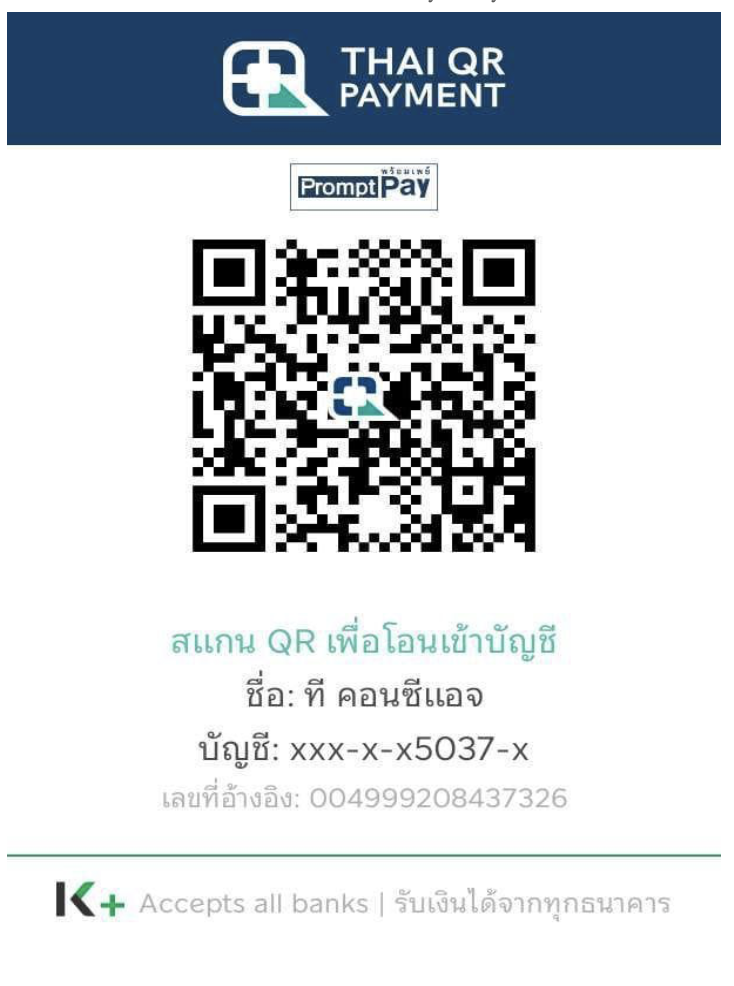
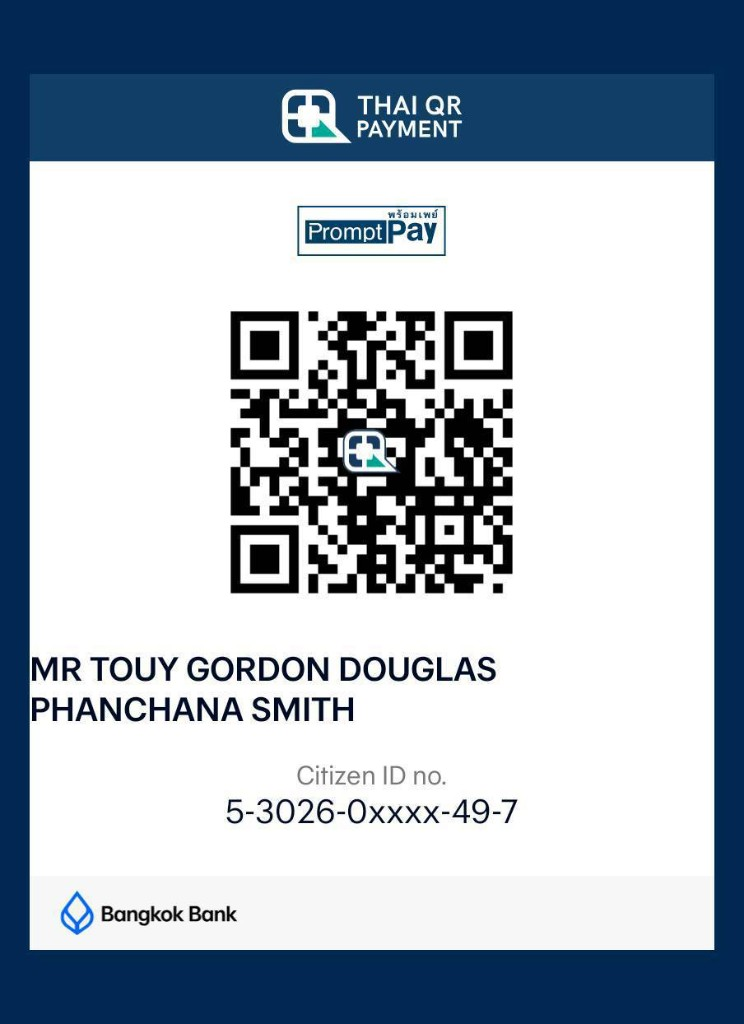
Update payment methods to Bangkok Bank, PromptPay, and Wise QR details.

diff --git a/src/components/payment/PaymentInformation.tsx b/src/components/payment/PaymentInformation.tsx
@@ -12,7 +12,7 @@ import { Card, CardContent, CardDescription, CardHeader, CardTitle } from "@/com
 import { Input } from "@/components/ui/input";
 import { Label } from "@/components/ui/label";
 
-const DEFAULT_STATIC_QR = "/images/payment/promptpay-static.png";
+const DEFAULT_STATIC_QR = paymentConfig.promptPayQrImage;
 
 export type PaymentInformationBankDetails = {
   bankName?: string;
@@ -30,9 +30,9 @@ export type PaymentInformationProps = {
   /** Controlled slip file; omit for uncontrolled mode with internal state. */
   transferSlipFile?: File | null;
   onTransferSlipChange?: (file: File | null) => void;
-  /** Static QR image URL when no dynamic amount QR is shown. Defaults to the site’s Kasikorn / PromptPay template asset. */
+  /** Static QR image URL when no dynamic amount QR is shown. Defaults to the Bangkok Bank PromptPay asset. */
   staticQrSrc?: string;
-  /** Override displayed bank fields (defaults from `paymentConfig.bank` / i18n). */
+  /** Override displayed bank fields (defaults from `paymentConfig.bank`). */
   bankDetails?: PaymentInformationBankDetails;
   className?: string;
 };
@@ -67,7 +67,7 @@ export function PaymentInformation({
     [controlledSlip, onTransferSlipChange]
   );
 
-  const bankName = bankDetails?.bankName ?? t("kbankName");
+  const bankName = bankDetails?.bankName ?? paymentConfig.bank.name;
   const accountName = bankDetails?.accountName ?? paymentConfig.bank.accountName;
   const accountNumber = bankDetails?.accountNumber ?? paymentConfig.bank.accountNumber;
 
@@ -248,6 +248,37 @@ export function PaymentInformation({
               </dd>
             </div>
           </dl>
+        </section>
+
+        <section aria-labelledby="payment-wise-heading" className="space-y-4">
+          <div className="border-t border-border pt-6">
+            <h3 id="payment-wise-heading" className="text-base font-semibold text-gray-900 dark:text-gray-100">
+              {t("wiseTitle")}
+            </h3>
+            <p className="mt-1 text-sm text-muted">{t("wiseHint")}</p>
+          </div>
+          <div className="flex flex-col items-center gap-4 sm:flex-row sm:items-start">
+            {/* eslint-disable-next-line @next/next/no-img-element -- public static Wise QR asset */}
+            <img
+              src={paymentConfig.wise.qrImage}
+              alt={t("wiseQrAlt")}
+              width={180}
+              height={180}
+              className="h-40 w-40 rounded-lg border border-border bg-white object-contain p-2 dark:bg-gray-950"
+            />
+            <dl className="grid flex-1 gap-3 text-sm">
+              <div className="flex flex-col gap-0.5 sm:flex-row sm:items-baseline sm:gap-4">
+                <dt className="min-w-[8rem] shrink-0 font-medium text-gray-600 dark:text-gray-400">{t("wiseIdLabel")}</dt>
+                <dd className="font-mono font-semibold text-gray-900 dark:text-gray-100">
+                  {paymentConfig.wise.accountId}
+                </dd>
+              </div>
+              <div className="flex flex-col gap-0.5 sm:flex-row sm:items-baseline sm:gap-4">
+                <dt className="min-w-[8rem] shrink-0 font-medium text-gray-600 dark:text-gray-400">{t("accountNameLabel")}</dt>
+                <dd className="text-gray-900 dark:text-gray-100">{paymentConfig.wise.beneficiary}</dd>
+              </div>
+            </dl>
+          </div>
         </section>
 
         <section aria-labelledby="payment-slip-heading" className="space-y-2 border-t border-border pt-6">

diff --git a/src/app/[locale]/(portal)/portal/invoices/[id]/InvoiceDetailClient.tsx b/src/app/[locale]/(portal)/portal/invoices/[id]/InvoiceDetailClient.tsx
@@ -9,6 +9,7 @@ import { submitPaymentWithProof } from "@/actions/payment";
 import { uploadDocumentMetadataAction } from "@/actions/document";
 import { CreditCard, Building2, Globe, Upload, Loader2 } from "lucide-react";
 import type { PaymentSettings } from "@/lib/payment-settings";
+import { paymentConfig } from "@/config/payments";
 
 type InvoiceWithRelations = {
   id: string;
@@ -66,6 +67,7 @@ export function InvoiceDetailClient({
       Reference: reference,
       Details: paymentSettings.wiseDetails.replace("[Your invoice reference]", reference),
       Note: paymentSettings.wiseNote,
+      "Pay link": paymentConfig.wise.payUrl,
     },
   };
 
@@ -206,14 +208,24 @@ export function InvoiceDetailClient({
               <p className="mb-3 text-sm font-medium text-gray-700 dark:text-gray-300">
                 {wiseInstructions.label}
               </p>
-              <dl className="space-y-2 text-sm">
-                {Object.entries(wiseInstructions.details).map(([k, v]) => (
-                  <div key={k} className="flex flex-col gap-0.5">
-                    <dt className="font-medium text-gray-600 dark:text-gray-400">{k}</dt>
-                    <dd className="whitespace-pre-wrap text-gray-900 dark:text-white">{v}</dd>
-                  </div>
-                ))}
-              </dl>
+              <div className="flex flex-col gap-4 sm:flex-row sm:items-start">
+                {/* eslint-disable-next-line @next/next/no-img-element -- public Wise QR asset */}
+                <img
+                  src={paymentConfig.wise.qrImage}
+                  alt="Wise QR code"
+                  width={180}
+                  height={180}
+                  className="h-40 w-40 rounded-lg border border-gray-200 bg-white object-contain p-2 dark:border-gray-600"
+                />
+                <dl className="space-y-2 text-sm">
+                  {Object.entries(wiseInstructions.details).map(([k, v]) => (
+                    <div key={k} className="flex flex-col gap-0.5">
+                      <dt className="font-medium text-gray-600 dark:text-gray-400">{k}</dt>
+                      <dd className="whitespace-pre-wrap text-gray-900 dark:text-white">{v}</dd>
+                    </div>
+                  ))}
+                </dl>
+              </div>
             </div>
           )}
 

diff --git a/src/config/payments.ts b/src/config/payments.ts
@@ -5,24 +5,30 @@
 
 export const paymentConfig = {
   /** PromptPay ID: mobile (0XXXXXXXXX), tax ID (13 digits), or e-wallet */
-  promptPayId: process.env.PROMPTPAY_ID ?? "0812345678",
+  promptPayId: process.env.PROMPTPAY_ID ?? "5302601003497",
+
+  /** Static Thai QR / PromptPay image shown when no amount-specific QR is generated */
+  promptPayQrImage: "/images/payment/promptpay-static.png",
 
   /** Bank details for transfer */
   bank: {
-    name: process.env.BANK_NAME ?? "Kasikorn Bank",
+    name: process.env.BANK_NAME ?? "Bangkok Bank",
     branch: process.env.BANK_BRANCH ?? "Head Office",
-    accountName: process.env.BANK_ACCOUNT_NAME ?? "T Concierge",
-    accountNumber: process.env.BANK_ACCOUNT_NUMBER ?? "2058950370",
+    accountName: process.env.BANK_ACCOUNT_NAME ?? "Touy Smith",
+    accountNumber: process.env.BANK_ACCOUNT_NUMBER ?? "037-7-076153",
   },
 
   /** Wise transfer instructions */
   wise: {
-    beneficiary: process.env.WISE_BENEFICIARY ?? "T Concierge",
+    beneficiary: process.env.WISE_BENEFICIARY ?? "Touy Smith",
     accountId: process.env.WISE_ACCOUNT_ID ?? "@touygordondouglasphanchanas",
     currency: "THB",
+    payUrl:
+      process.env.WISE_PAY_URL ?? "https://wise.com/pay/me/touygordondouglasphanchanas",
+    qrImage: "/images/payment/wise-qr.png",
     details:
       process.env.WISE_DETAILS ??
-      "Account ID: @touygordondouglasphanchanas\nReference: [Your invoice reference]",
+      "Wise tag: @touygordondouglasphanchanas\nReference: [Your invoice reference]",
     note: "Please include the invoice reference in the transfer details.",
   },
 } as const;

diff --git a/src/lib/payments/providers/ManualProvider.ts b/src/lib/payments/providers/ManualProvider.ts
@@ -52,12 +52,14 @@ export const wiseProvider: PaymentProvider = {
       method: "wise",
       label: "Wise (International Transfer)",
       details: {
-        "Beneficiary": paymentConfig.wise.beneficiary,
-        "Currency": paymentConfig.wise.currency,
-        "Amount": `${(amount / 100).toFixed(2)} ${currency}`,
-        "Reference": reference,
-        "Details": paymentConfig.wise.details.replace("[Your invoice reference]", reference),
-        "Note": paymentConfig.wise.note,
+        Beneficiary: paymentConfig.wise.beneficiary,
+        "Account ID": paymentConfig.wise.accountId,
+        Currency: paymentConfig.wise.currency,
+        Amount: `${(amount / 100).toFixed(2)} ${currency}`,
+        Reference: reference,
+        Details: paymentConfig.wise.details.replace("[Your invoice reference]", reference),
+        Note: paymentConfig.wise.note,
+        "Pay link": paymentConfig.wise.payUrl,
       },
     };
   },

diff --git a/src/lib/payment-settings.ts b/src/lib/payment-settings.ts
@@ -21,7 +21,7 @@ const SETTINGS_KEY = "payment_details";
 export function getDefaultPaymentSettings(): PaymentSettings {
   return {
     promptPayId: paymentConfig.promptPayId,
-    qrImagePath: process.env.INVOICE_THAI_QR_IMAGE_PATH ?? null,
+    qrImagePath: process.env.INVOICE_THAI_QR_IMAGE_PATH ?? "public/images/payments/thai-qr-payment.png",
     bankName: paymentConfig.bank.name,
     bankBranch: paymentConfig.bank.branch,
     bankAccountName: paymentConfig.bank.accountName,

diff --git a/src/app/[locale]/(portal)/portal/profile/PortalSettings.tsx b/src/app/[locale]/(portal)/portal/profile/PortalSettings.tsx
@@ -538,7 +538,7 @@ export function PortalSettings({ user: initial, hasPassword }: PortalSettingsPro
                     name="bankName"
                     className="mt-1"
                     defaultValue={initial.notificationPreferences.bankName ?? ""}
-                    placeholder="Kasikorn Bank"
+                    placeholder="Bangkok Bank"
                   />
                 </div>
                 <div>

diff --git a/src/lib/payments/qr.ts b/src/lib/payments/qr.ts
@@ -7,7 +7,7 @@
 const { generatePayload } = require("promptpay-qr");
 
 const defaultPromptPayId =
-  typeof process !== "undefined" ? process.env.PROMPTPAY_ID ?? "0812345678" : "0812345678";
+  typeof process !== "undefined" ? process.env.PROMPTPAY_ID ?? "5302601003497" : "5302601003497";
 
 /**
  * Generate PromptPay QR payload for dynamic amount (THB).
